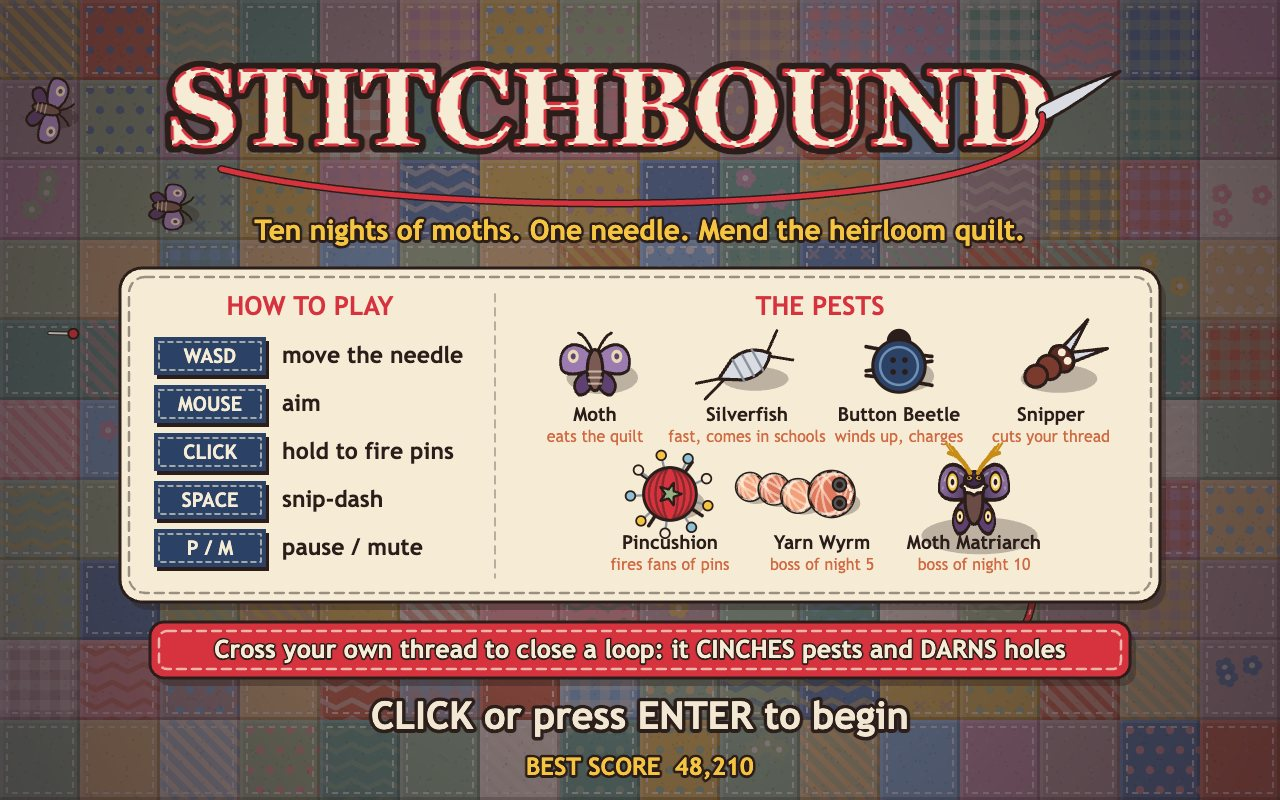
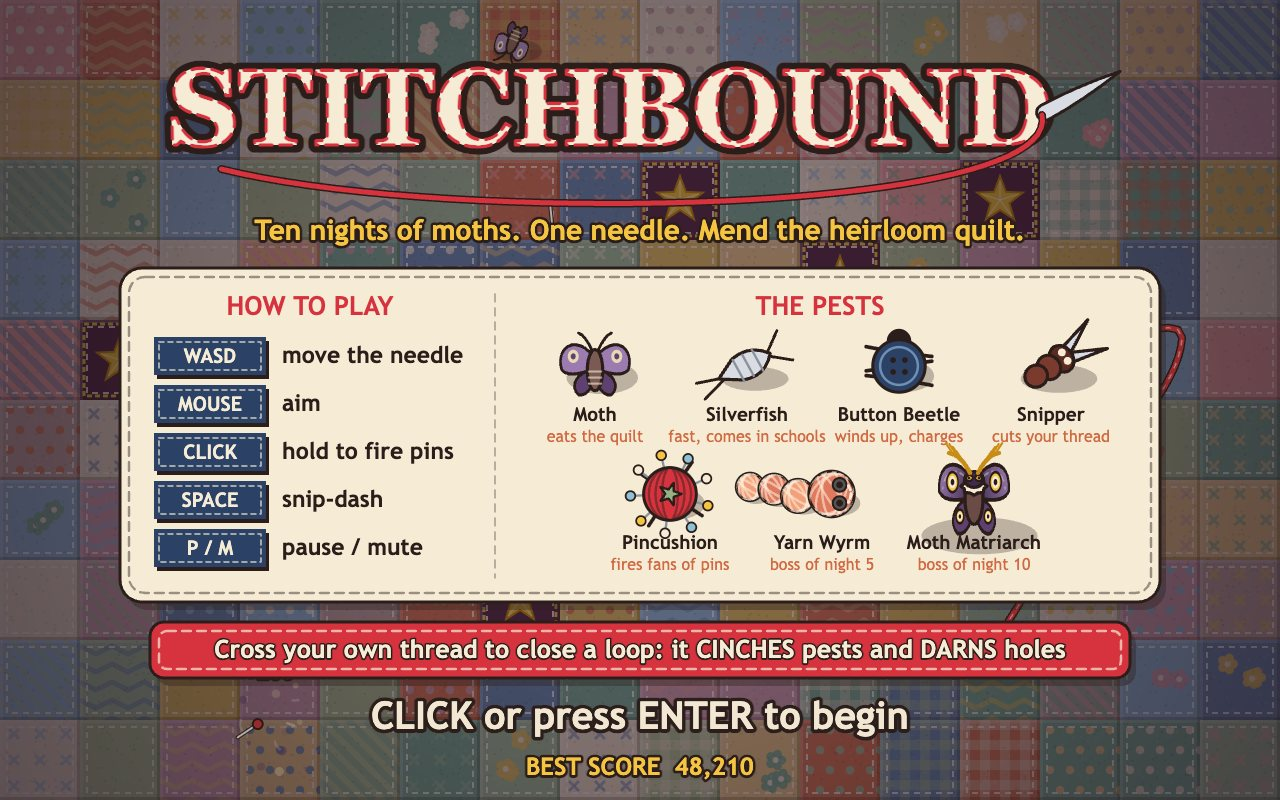
Heirloom patches: gold-star squares moths crave, a dawn bonus for each kept, HUD count and results stat

diff --git a/game/src/quilt.js b/game/src/quilt.js
@@ -6,6 +6,12 @@ import { createRandom } from './random.js';
 import { PALETTE, PATCH, PATCH_COLORS, QUILT_BUDGET, VIEW } from './config.js';
 
 const PATTERNS = ['plain', 'gingham', 'dots', 'stripes', 'flowers', 'chevron', 'cross', 'plain'];
+const HEIRLOOMS = 8;
+
+/** Heirloom patches still holding together (most of their cloth left). */
+export function heirloomsKept(quilt) {
+  return quilt.patches.filter((p) => p.heirloom && p.hp > 0.5).length;
+}
 
 export function createQuilt(seed) {
   const rng = createRandom(seed * 7919 + 13);
@@ -33,8 +39,17 @@ export function createQuilt(seed) {
         holes,
         mendFlash: 0,
         biteFlash: 0,
+        heirloom: false,
       });
     }
+  }
+  // Heirloom patches: gold-embroidered squares the moths crave, worth a bonus each dawn they survive.
+  const inner = patches.filter((p) => p.col > 0 && p.row > 1 && p.col < PATCH.cols - 1 && p.row < PATCH.rows - 2);
+  for (let i = 0; i < HEIRLOOMS; i += 1) {
+    if (inner.length === 0) break;
+    const pick = inner.splice(Math.floor(rng.next() * inner.length), 1)[0];
+    pick.heirloom = true;
+    inner.splice(0, inner.length, ...inner.filter((p) => Math.abs(p.col - pick.col) + Math.abs(p.row - pick.row) > 1));
   }
   // Painted at twice the logical size so the cloth stays crisp when the page scales the game up.
   const canvas = document.createElement('canvas');
@@ -204,6 +219,7 @@ function paintPatch(ctx, patch, rng) {
     ctx.fillRect(x + rng.range(0, s), y + rng.range(0, s), 2, 2);
   }
   ctx.globalAlpha = 1;
+  if (patch.heirloom) paintHeirloom(ctx, patch);
   // Raised seam shading and the running stitch just inside each edge.
   ctx.fillStyle = 'rgba(255,255,255,0.18)';
   ctx.fillRect(x, y, s, 3);
@@ -217,6 +233,41 @@ function paintPatch(ctx, patch, rng) {
   ctx.strokeRect(x + 7, y + 7, s - 14, s - 14);
   ctx.setLineDash([]);
   ctx.restore();
+}
+
+/** A deep velvet square with a gold-thread star embroidered in its middle. */
+function paintHeirloom(ctx, patch) {
+  const s = PATCH.size;
+  const cx = patch.x + s / 2;
+  const cy = patch.y + s / 2;
+  ctx.fillStyle = '#5b2a4e';
+  ctx.fillRect(patch.x, patch.y, s, s);
+  ctx.strokeStyle = PALETTE.gold;
+  ctx.lineWidth = 3;
+  ctx.setLineDash([5, 3]);
+  ctx.strokeRect(patch.x + 4, patch.y + 4, s - 8, s - 8);
+  ctx.setLineDash([]);
+  ctx.beginPath();
+  for (let i = 0; i < 10; i += 1) {
+    const a = (i / 10) * TAU - Math.PI / 2;
+    const r = i % 2 === 0 ? 24 : 10;
+    ctx.lineTo(cx + Math.cos(a) * r, cy + Math.sin(a) * r);
+  }
+  ctx.closePath();
+  ctx.fillStyle = PALETTE.gold;
+  ctx.fill();
+  ctx.strokeStyle = PALETTE.goldDeep;
+  ctx.lineWidth = 2;
+  ctx.stroke();
+  ctx.strokeStyle = 'rgba(255,240,200,0.8)';
+  ctx.lineWidth = 1.2;
+  for (let i = 0; i < 5; i += 1) {
+    const a = (i / 5) * TAU - Math.PI / 2;
+    ctx.beginPath();
+    ctx.moveTo(cx, cy);
+    ctx.lineTo(cx + Math.cos(a) * 20, cy + Math.sin(a) * 20);
+    ctx.stroke();
+  }
 }
 
 function paintQuiltShade(ctx) {

diff --git a/game/src/hud.js b/game/src/hud.js
@@ -2,7 +2,7 @@
 // quilt's integrity, the dash and thread meters, the boss bar, owned notions and the night banner.
 import { PALETTE, WAVE_COUNT, VIEW } from './config.js';
 import { easeOutBack } from './geometry.js';
-import { quiltIntegrity } from './quilt.js';
+import { heirloomsKept, quiltIntegrity } from './quilt.js';
 import { comboMultiplier } from './scoring.js';
 import { foesRemaining, WAVES } from './waves.js';
 import { upgradeById } from './upgrades.js';
@@ -26,6 +26,7 @@ function drawTip(ctx, run, time) {
   let tip = null;
   if (run.wave === 1 && run.stats.loops === 0 && run.time > 2.5) tip = 'Circle the moths: cross your own thread to close a loop!';
   else if (run.wave === 2 && run.waveTime < 6) tip = 'Loops also darn holes shut. Space to snip-dash.';
+  else if (run.wave === 3 && run.waveTime < 6) tip = 'Moths crave gold-star heirlooms: each one kept pays at dawn.';
   else if (run.wave === 6 && run.waveTime < 6) tip = 'Snippers cut your thread: pin them first!';
   if (!tip) return;
   const y = VIEW.height - 118 + Math.sin(time * 3) * 3;
@@ -86,7 +87,9 @@ function drawQuiltMeter(ctx, run, time) {
   const integrity = quiltIntegrity(run.quilt);
   const low = integrity < 0.35;
   const y = VIEW.height - 74;
-  drawFeltPanel(ctx, 14, y, 360, 60, PALETTE.cream, 'rgba(42,29,26,0.4)', 14);
+  drawFeltPanel(ctx, 14, y, 440, 60, PALETTE.cream, 'rgba(42,29,26,0.4)', 14);
+  drawStar(ctx, 384, y + 30, 15);
+  drawText(ctx, String(heirloomsKept(run.quilt)), 406, y + 31, { size: 26, color: PALETTE.goldDeep, align: 'left', outline: 0 });
   const pulse = low ? 0.5 + 0.5 * Math.sin(time * 10) : 1;
   drawText(ctx, 'QUILT', 34, y + 30, { size: 24, color: low ? PALETTE.danger : PALETTE.ink, align: 'left', outline: 0 });
   const color = integrity > 0.6 ? PALETTE.sage : integrity > 0.35 ? PALETTE.mustard : PALETTE.danger;
@@ -94,6 +97,22 @@ function drawQuiltMeter(ctx, run, time) {
   drawMeter(ctx, 116, y + 19, 148, 22, integrity, color);
   ctx.globalAlpha = 1;
   drawText(ctx, `${Math.round(integrity * 100)}%`, 344, y + 31, { size: 26, color: PALETTE.ink, align: 'right', outline: 0 });
+}
+
+/** The gold heirloom star, as embroidered on the heirloom patches. */
+function drawStar(ctx, x, y, r) {
+  ctx.beginPath();
+  for (let i = 0; i < 10; i += 1) {
+    const a = (i / 10) * Math.PI * 2 - Math.PI / 2;
+    const rr = i % 2 === 0 ? r : r * 0.42;
+    ctx.lineTo(x + Math.cos(a) * rr, y + Math.sin(a) * rr);
+  }
+  ctx.closePath();
+  ctx.fillStyle = PALETTE.gold;
+  ctx.fill();
+  ctx.strokeStyle = PALETTE.ink;
+  ctx.lineWidth = 2;
+  ctx.stroke();
 }
 
 function drawNeedleMeters(ctx, run) {

diff --git a/game/src/waves.js b/game/src/waves.js
@@ -4,7 +4,7 @@ import { DAWN_MEND, PALETTE, WAVE_COUNT } from './config.js';
 import { floatText } from './effects.js';
 import { spawnAtEdge } from './enemies.js';
 import { spawnMatriarch, spawnWyrm } from './bosses.js';
-import { darnAtDawn, quiltIntegrity } from './quilt.js';
+import { darnAtDawn, heirloomsKept, quiltIntegrity } from './quilt.js';
 import { addBonus } from './scoring.js';
 
 export const WAVES = [
@@ -63,6 +63,8 @@ export function updateWaves(run, dt) {
     run.clearTimer = CLEAR_SECONDS;
     const bonus = Math.round(300 * run.wave + 700 * quiltIntegrity(run.quilt));
     addBonus(run, bonus, `NIGHT ${run.wave} CLEARED`, 640, 330);
+    const kept = heirloomsKept(run.quilt);
+    if (kept > 0) addBonus(run, kept * 150, `HEIRLOOMS x${kept}`, 640, 380);
     run.events.push({ type: 'waveClear' });
     if (run.wave >= WAVE_COUNT) run.outcome = 'win';
     else {

diff --git a/game/src/screens.js b/game/src/screens.js
@@ -231,13 +231,15 @@ export function drawResults(ctx, summary, time) {
     ['Biggest loop', `${summary.biggestLoop} caught`],
     ['Cloth darned', `${summary.mended.toFixed(1)} patches`],
     ['Top combo', `x${summary.combo}`],
+    ['Heirlooms kept', `${summary.heirlooms} / 8`],
     ['Time', formatTime(summary.time)],
+    ['Notions sewn', String(summary.owned.length)],
   ];
   stats.forEach(([label, value], i) => {
     const col = i % 2;
     const row = Math.floor(i / 2);
     const x = px + 60 + col * 370;
-    const y = py + 168 + row * 44;
+    const y = py + 162 + row * 40;
     drawText(ctx, label, x, y, { size: 24, color: PALETTE.ink, align: 'left', outline: 0, weight: 'normal' });
     drawText(ctx, value, x + 320, y, { size: 26, color: PALETTE.navy, align: 'right', outline: 0 });
   });

diff --git a/game/src/enemies.js b/game/src/enemies.js
@@ -151,7 +151,8 @@ function pickPatch(run, enemy) {
   let bestScore = Infinity;
   for (let i = 0; i < 6; i += 1) {
     const patch = run.rng.pick(patches);
-    const score = distance(enemy.x, enemy.y, patch.cx, patch.cy) * run.rng.range(0.6, 1.2);
+    const craving = patch.heirloom ? 0.45 : 1;
+    const score = distance(enemy.x, enemy.y, patch.cx, patch.cy) * run.rng.range(0.6, 1.2) * craving;
     if (score < bestScore) {
       best = patch;
       bestScore = score;

diff --git a/game/src/summary.js b/game/src/summary.js
@@ -1,4 +1,5 @@
 // The numbers of a finished run, as the results card shows them.
+import { heirloomsKept } from './quilt.js';
 
 export function summarizeRun(run, previousBest) {
   return {
@@ -12,6 +13,7 @@ export function summarizeRun(run, previousBest) {
     biggestLoop: run.stats.biggestLoop,
     mended: run.stats.mended,
     combo: run.combo.best,
+    heirlooms: heirloomsKept(run.quilt),
     time: run.time,
     owned: Object.keys(run.owned),
   };
